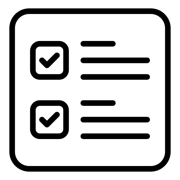
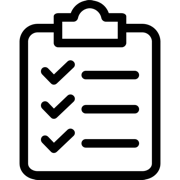
Updates

diff --git a/sw.js b/sw.js
@@ -1,1 +1,1 @@
-if(!self.define){let e,n={};const i=(i,c)=>(i=new URL(i+".js",c).href,n[i]||new Promise(n=>{if("document"in self){const e=document.createElement("script");e.src=i,e.onload=n,document.head.appendChild(e)}else e=i,importScripts(i),n()}).then(()=>{let e=n[i];if(!e)throw new Error(`Module ${i} didn’t register its module`);return e}));self.define=(c,s)=>{const a=e||("document"in self?document.currentScript.src:"")||location.href;if(n[a])return;let o={};const r=e=>i(e,a),f={module:{uri:a},exports:o,require:r};n[a]=Promise.all(c.map(e=>f[e]||r(e))).then(e=>(s(...e),o))}}define(["./workbox-dcde9eb3"],function(e){"use strict";self.skipWaiting(),e.clientsClaim(),e.precacheAndRoute([{url:"upload.png",revision:"71280006080955a289641e82de53df5e"},{url:"pwa-512x512.png",revision:"50ed08a53770b19fe76158bfc4995aac"},{url:"pwa-192x192.png",revision:"1125cc4c80cb9a215cc25ace41a96a20"},{url:"plus.png",revision:"f57f6993febcf408a2af5c3b0cc7ea6d"},{url:"pack.png",revision:"9b8e39795f2fcf8a26e741f787489e6f"},{url:"lists.png",revision:"50ed08a53770b19fe76158bfc4995aac"},{url:"index.html",revision:"71aa4d156aff27dcfcd7215931fb9d24"},{url:"favicon.svg",revision:"a70a39abfc461f9916e762744ceb7048"},{url:"download.png",revision:"234d41dd41318f5ec3daff5be855bcc0"},{url:"complete.png",revision:"da188ccb78f1017e9645542bb5e52d6b"},{url:"apple-touch-icon.png",revision:"75a6c6e2afb3d2ae9310d2aebbfd0e97"},{url:"assets/workbox-window.prod.es5-BBnX5xw4.js",revision:null},{url:"assets/index-DfaZ97rr.css",revision:null},{url:"assets/index-DRgzoh08.js",revision:null},{url:"apple-touch-icon.png",revision:"75a6c6e2afb3d2ae9310d2aebbfd0e97"},{url:"favicon.svg",revision:"a70a39abfc461f9916e762744ceb7048"},{url:"pwa-192x192.png",revision:"1125cc4c80cb9a215cc25ace41a96a20"},{url:"pwa-512x512.png",revision:"50ed08a53770b19fe76158bfc4995aac"},{url:"manifest.webmanifest",revision:"558f1eee3b4202f53691e70d4b407016"}],{}),e.cleanupOutdatedCaches(),e.registerRoute(new e.NavigationRoute(e.createHandlerBoundToURL("index.html"))),e.registerRoute(/^https:\/\/fonts\.googleapis\.com\/.*/i,new e.CacheFirst({cacheName:"google-fonts-cache",plugins:[new e.ExpirationPlugin({maxEntries:10,maxAgeSeconds:31536e3})]}),"GET")});
+if(!self.define){let e,n={};const i=(i,s)=>(i=new URL(i+".js",s).href,n[i]||new Promise(n=>{if("document"in self){const e=document.createElement("script");e.src=i,e.onload=n,document.head.appendChild(e)}else e=i,importScripts(i),n()}).then(()=>{let e=n[i];if(!e)throw new Error(`Module ${i} didn’t register its module`);return e}));self.define=(s,o)=>{const r=e||("document"in self?document.currentScript.src:"")||location.href;if(n[r])return;let c={};const f=e=>i(e,r),a={module:{uri:r},exports:c,require:f};n[r]=Promise.all(s.map(e=>a[e]||f(e))).then(e=>(o(...e),c))}}define(["./workbox-dcde9eb3"],function(e){"use strict";self.skipWaiting(),e.clientsClaim(),e.precacheAndRoute([{url:"upload.png",revision:"71280006080955a289641e82de53df5e"},{url:"pwa-512x512.png",revision:"efbc9ecffc366f46501225fdd0477c1d"},{url:"pwa-192x192.png",revision:"05bea04ca43bd1750d881ee534609ef9"},{url:"plus.png",revision:"f57f6993febcf408a2af5c3b0cc7ea6d"},{url:"pack.png",revision:"9b8e39795f2fcf8a26e741f787489e6f"},{url:"lists.png",revision:"50ed08a53770b19fe76158bfc4995aac"},{url:"index.html",revision:"71aa4d156aff27dcfcd7215931fb9d24"},{url:"favicon.svg",revision:"a70a39abfc461f9916e762744ceb7048"},{url:"download.png",revision:"234d41dd41318f5ec3daff5be855bcc0"},{url:"complete.png",revision:"da188ccb78f1017e9645542bb5e52d6b"},{url:"clipboard.png",revision:"efbc9ecffc366f46501225fdd0477c1d"},{url:"apple-touch-icon.png",revision:"ac2a87ab12e101f55947210382a92833"},{url:"assets/workbox-window.prod.es5-BBnX5xw4.js",revision:null},{url:"assets/index-DfaZ97rr.css",revision:null},{url:"assets/index-DRgzoh08.js",revision:null},{url:"apple-touch-icon.png",revision:"ac2a87ab12e101f55947210382a92833"},{url:"favicon.svg",revision:"a70a39abfc461f9916e762744ceb7048"},{url:"pwa-192x192.png",revision:"05bea04ca43bd1750d881ee534609ef9"},{url:"pwa-512x512.png",revision:"efbc9ecffc366f46501225fdd0477c1d"},{url:"manifest.webmanifest",revision:"558f1eee3b4202f53691e70d4b407016"}],{}),e.cleanupOutdatedCaches(),e.registerRoute(new e.NavigationRoute(e.createHandlerBoundToURL("index.html"))),e.registerRoute(/^https:\/\/fonts\.googleapis\.com\/.*/i,new e.CacheFirst({cacheName:"google-fonts-cache",plugins:[new e.ExpirationPlugin({maxEntries:10,maxAgeSeconds:31536e3})]}),"GET")});
